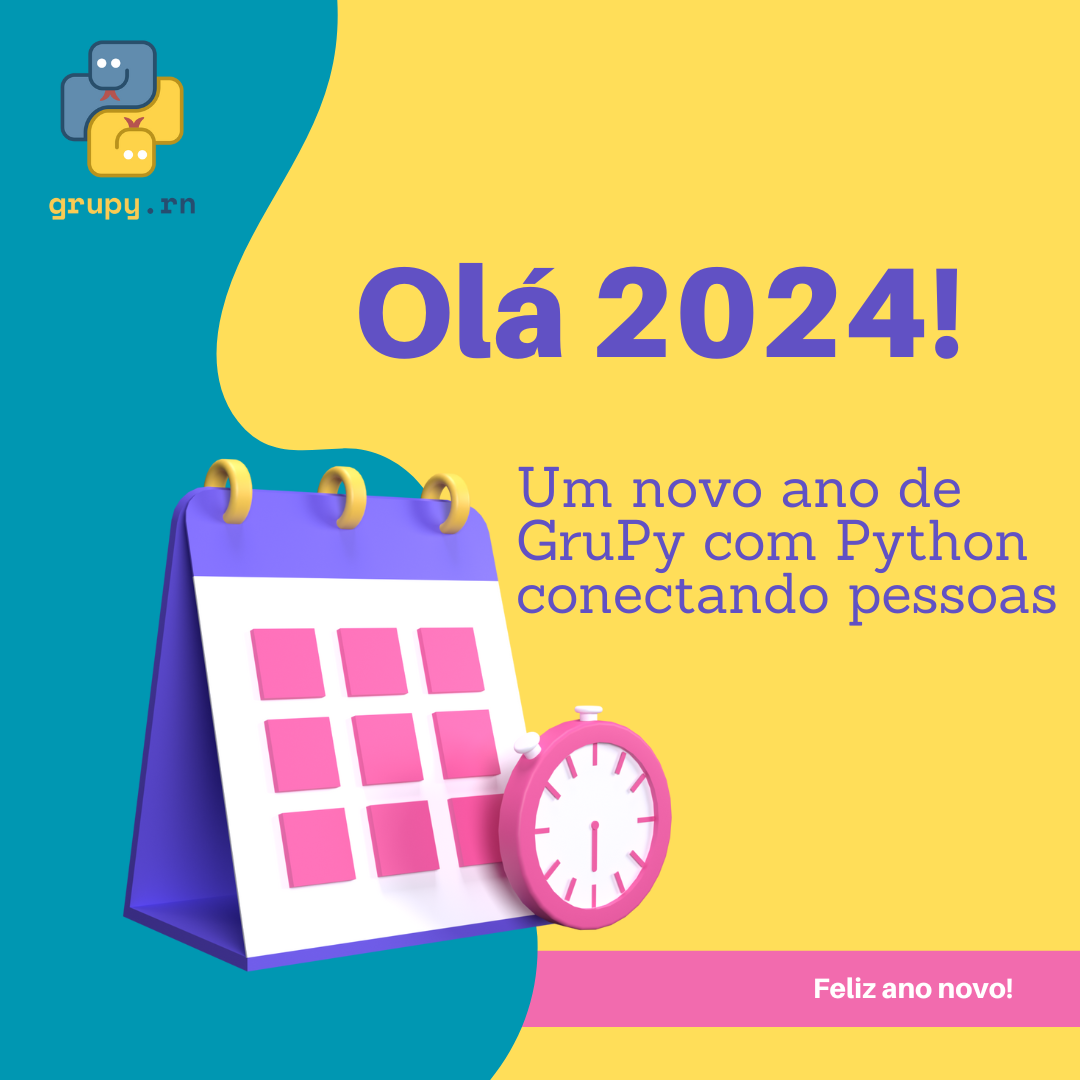
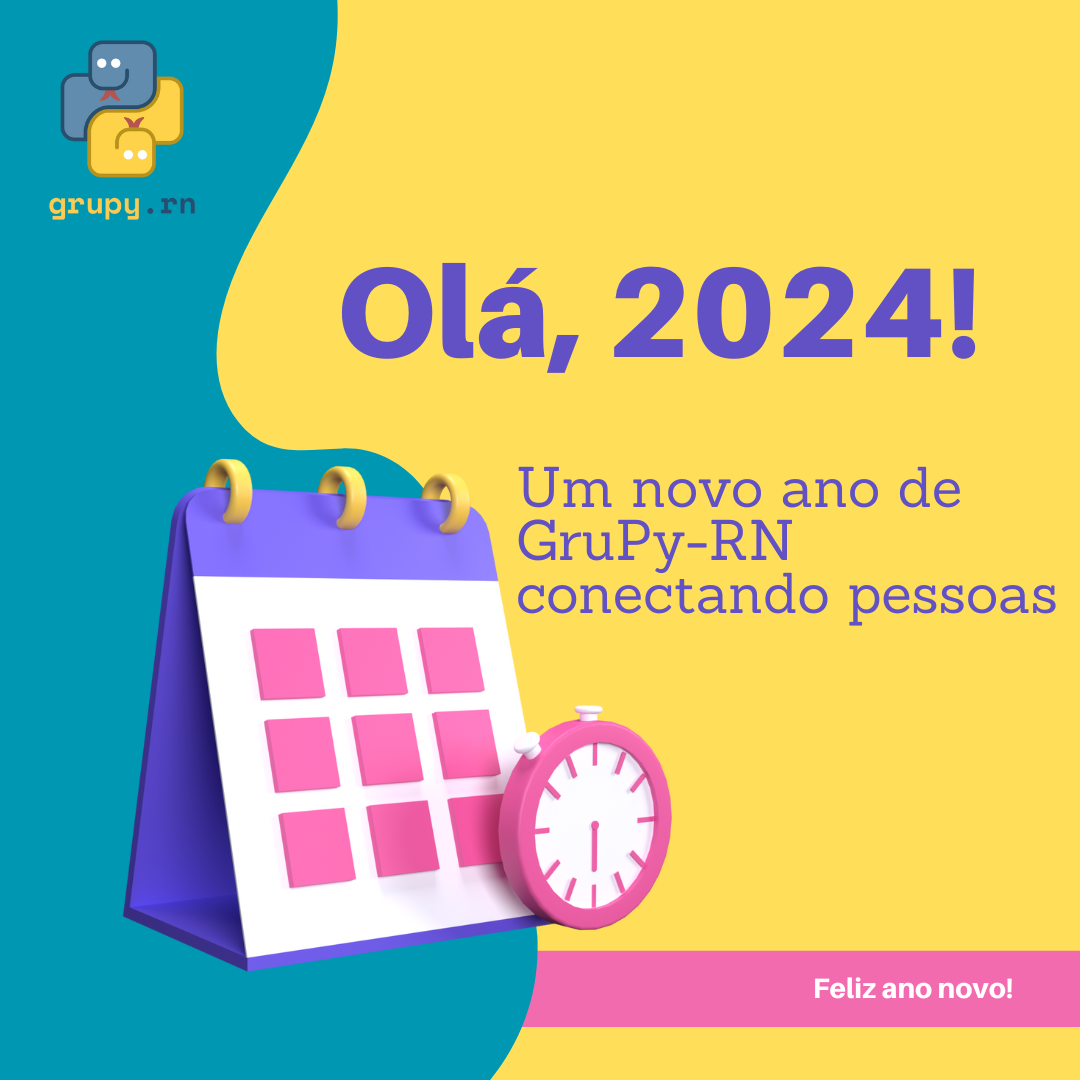
Atualiza texto e imagem de acordo com o feedback do @allythy

Changed region(s): [[0.3056, 0.2444, 0.9167, 0.3667], [0.6417, 0.4583, 0.9472, 0.5194]]

diff --git a/_posts/2024-01-20-ola-2024.md b/_posts/2024-01-20-ola-2024.md
@@ -14,7 +14,7 @@ excerpt: >
 Olá, comunidade, feliz ano novo!
 
 O GruPy é uma comunidade aberta que se reúne pelo Telegram, Instagram e em meetups,
-geralmente aos sábados de manhã, no SEBRAE. Nossa meta para 2024 
+geralmente aos sábados de manhã, no SEBRAE-RN. Nossa meta para 2024 
 é tornar a organização ainda mais aberta. Por isso, criamos o repositório 
 [Organização](https://github.com/grupyrn/organizacao), 
 que contém issues de todos os nossos processos. Além disso, utilizaremos o 
@@ -25,7 +25,7 @@ Abrir os processos de organização permite que os membros vejam quem está por 
 atividades e do trabalho, e possibilita a contribuição por meio das issues 
 abertas. A ideia é que a comunidade se autogerencie. Assim, se alguém sai, outras pessoas 
 podem assumir as funções e continuar o trabalho. Dessa forma, esperamos que mais pessoas 
-possam abrir capítulos do GruPy em suas cidades, ajudar a organizar os capítulos e 
+possam abrir capítulos do GruPy-RN em suas cidades, ajudar a organizar os capítulos e 
 eventos existentes, sugerir novas pautas e eventos.
 
 Como era feita a organização anteriormente? Tínhamos um 
@@ -33,7 +33,7 @@ Como era feita a organização anteriormente? Tínhamos um
 que administrava o email, sistemas e redes sociais da organização. A cada evento, 
 convidávamos mais pessoas interessadas em ajudar a organizar os meetups. Esses convites 
 e a comunicação interna ainda existirão, mas as atividades e as pessoas responsáveis 
-estarão todas documentadas no GitHub do GruPy.
+estarão todas documentadas no GitHub do GruPy-RN.
 
 ## Recapitulando 2023
 
@@ -43,8 +43,8 @@ Isso atrapalhou um pouco o calendário dos nossos eventos. Mesmo assim, consegui
 [15º Meetup em Natal](/tbt15grupy/), [16º Meetup em Natal](/aconteceu-16-meetup-grupyrn/), 
 o [Go!RN 2023](/aconteceu-gorn-2023/) e o [10º Meetup em Mossoró](/meetup-10-mossoro/).
 
-Realizamos a pré-venda de duas remessas das camisas GruPy RN, vendidas a preço de custo. 
-Iniciamos a venda de adesivos com a arte GruPy RN, o que vem gerado algum caixa para financiar 
+Realizamos a pré-venda de duas remessas das camisas GruPy-RN, vendidas a preço de custo. 
+Iniciamos a venda de adesivos com a arte GruPy-RN, o que vem gerado algum caixa para financiar 
 eventos futuros. E claro, estamos muito animados em trazer para Natal a 
 [Python Nordeste 2024](https://pythonnordeste.org), esperamos te ver lá!
 
@@ -55,8 +55,8 @@ ainda sujeito a mudanças e sugestões ;)
 
 | Evento | Data sugerida | Descrição |
 | ------ | ------------- | --------- |
-| [Natal] 17º Meetup GruPy RN | 23/03/2024 | |
-| [Natal] 18º Meetup GruPy RN | 15/06/2024 | |
+| [Natal] 17º Meetup GruPy-RN | 23/03/2024 | |
+| [Natal] 18º Meetup GruPy-RN | 15/06/2024 | |
 | [Natal] Go!RN 2024 | A definir | Atuamos como correalizadores do evento, preenchendo slots com palestras e atividades, além de engajar nosso público nos eventos. |
 | [Natal] Python Nordeste 2024 | 09, 10 e 11 de agosto de 2024 | Acesse [https://pythonnordeste.org](https://pythonnordeste.org) para mais informações. |
 
